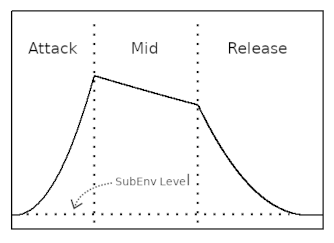
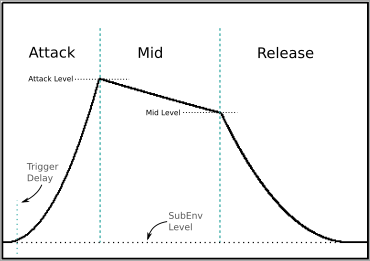
sml param update

diff --git a/README.md b/README.md
@@ -43,7 +43,7 @@ Plugins are provided in LV2, VST, VST3 and CLAP formats, compiled for Linux envi
 
 ### Envelope Terminology
 
-vSwell uses the terms outlined on the graphic below for envelopes. The choice of terms is largely dictated by the Heavy (hvcc) compiler, as it only organizes parameters alphabetically.
+vSwell uses the terms outlined on the graphic below for envelopes. The choice of terms is largely dictated by the Heavy (hvcc) compiler, as it only organizes parameters alphabetically. While relatively self-explanatory, here's a visual guide:
 
 ![Shape param](extra/envdefs2.png)
 
